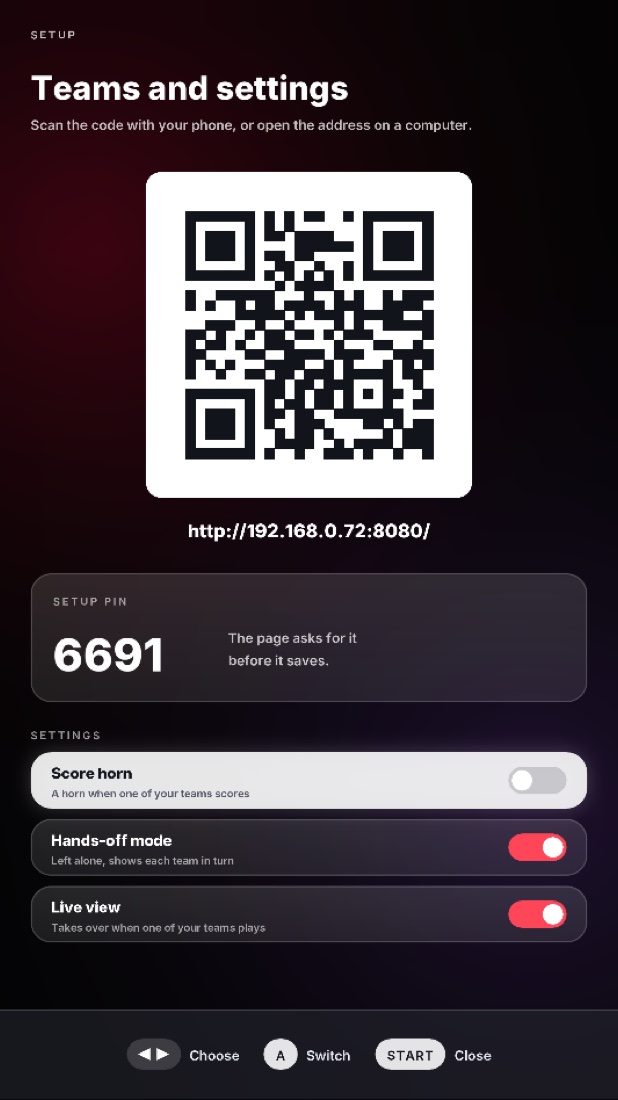
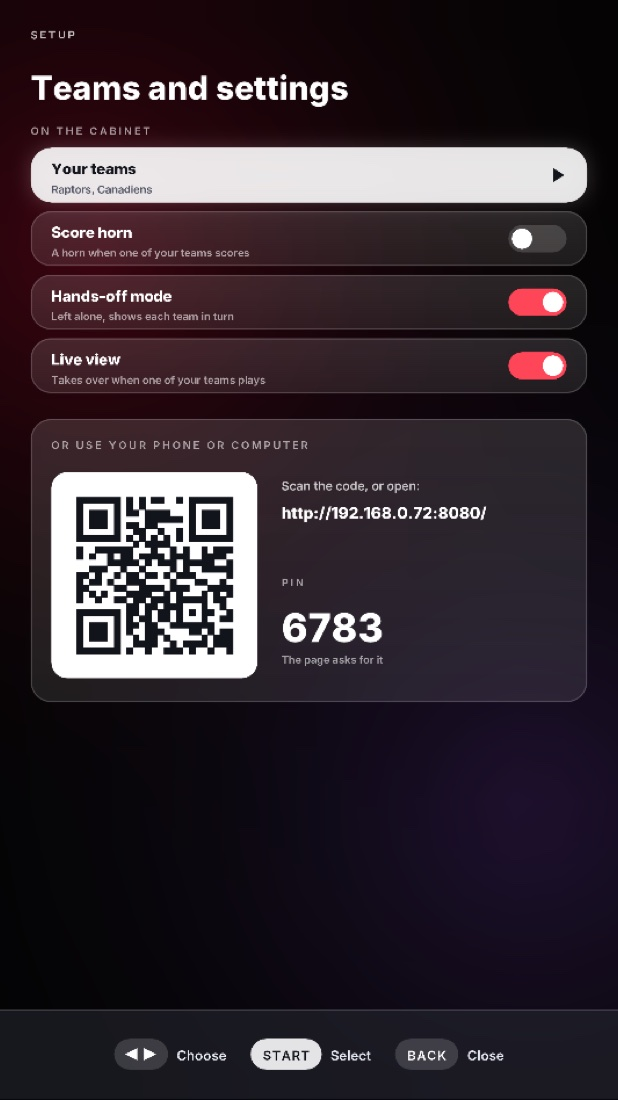
Site: pick teams on the cabinet, the cabinet's own buttons, donate
- Setup section: on the cabinet first (Teams and settings > Your teams), the
  phone or computer page second; new Teams and settings, team grid and Home
  screenshots.
- Controls: flippers move, Start selects, Rewind goes back; A and B with the
  control panel. FAQ: no control panel needed.
- Donate: a hero button and a Support section with the PayPal link (as on
  the Jukebox site); a Support line in the README.

diff --git a/docs/index.html b/docs/index.html
@@ -144,6 +144,11 @@ details .a ol, details .a ul { margin: 0; padding-left: 22px; display: grid; gap
 .groups h3 { margin: 0 0 2px; }
 @media (max-width: 860px) { .groups { grid-template-columns: minmax(0, 1fr); } }
 
+.setup-shots img { aspect-ratio: 9 / 16; width: 100%; object-fit: cover; object-position: top; }
+.pp { width: 18px; height: 18px; fill: currentColor; flex: none; }
+.support .pane { padding: 28px; display: flex; gap: 24px; align-items: center; justify-content: space-between; flex-wrap: wrap; }
+.support p { color: var(--dim); max-width: 60ch; }
+.support p b { color: var(--text); }
 footer { padding: 40px 0 60px; color: var(--faint); font-size: 14.5px; border-top: 1px solid rgba(255,255,255,.08); }
 footer .wrap { display: grid; gap: 8px; }
 </style>
@@ -173,6 +178,7 @@ footer .wrap { display: grid; gap: 8px; }
         <div class="btns">
           <a class="btn main" href="https://github.com/Bla1ze/atgames-game-day/releases/latest">Download</a>
           <a class="btn alt" href="#install">How to install</a>
+          <a class="btn alt" href="#support"><svg class="pp" viewBox="0 0 24 24" aria-hidden="true"><path d="M7.016 19.198h-4.2a.562.562 0 0 1-.555-.65L5.093.584A.692.692 0 0 1 5.776 0h7.222c3.417 0 5.904 2.488 5.846 5.5-.006.25-.027.5-.066.747A6.794 6.794 0 0 1 12.071 12H8.743a.69.69 0 0 0-.682.583l-.325 2.056-.013.083-.692 4.39-.015.087zM19.79 6.142c-.01.087-.01.175-.023.261a7.76 7.76 0 0 1-7.695 6.598H9.007l-.283 1.795-.013.083-.692 4.39-.134.843-.014.088H6.86l-.497 3.15a.562.562 0 0 0 .555.65h3.612c.34 0 .63-.249.683-.585l.952-6.031a.692.692 0 0 1 .683-.584h2.126a6.793 6.793 0 0 0 6.707-5.752c.306-1.95-.466-3.744-1.89-4.906z"/></svg>Donate</a>
         </div>
         <p class="cap">Free · For the 4KP and HDP · NFL, NBA, NHL, MLB, MLS, soccer and college</p>
       </div>
@@ -218,8 +224,8 @@ footer .wrap { display: grid; gap: 8px; }
         </div>
         <div class="pane">
           <div class="ico"><svg viewBox="0 0 24 24"><rect x="2" y="4" width="14" height="10" rx="1.5"/><path d="M6 18h6M9 14v4"/><rect x="17" y="8" width="5" height="11" rx="1.2"/></svg></div>
-          <h3>Set up from your phone or computer</h3>
-          <p>Scan the code on the cabinet with your phone, or type the address it shows into a browser on your computer. Pick your teams from any league and save. No typing on the cabinet, no account, nothing to sign up for.</p>
+          <h3>Pick your teams on the cabinet</h3>
+          <p>Choose a league and pick your teams from a grid of logos with the flippers and Start. Prefer typing? The same page opens on your phone or computer. No account, nothing to sign up for.</p>
         </div>
       </div>
     </div>
@@ -234,7 +240,7 @@ footer .wrap { display: grid; gap: 8px; }
       </div>
       <div class="gallery">
         <div class="row3">
-          <figure><img src="assets/home.jpg" alt="Home: a card per followed team, the Raptors live against Detroit and the Canadiens' next game, then today's scores" loading="lazy"><figcaption><b>Home</b><span>A card for each team you follow, then today's scores.</span></figcaption></figure>
+          <figure><img src="assets/home.jpg" alt="Home: a card per followed team, the Raptors live against Detroit and the Canadiens' next game, then today's scores" loading="lazy"><figcaption><b>Home</b><span>A card for each team you follow, today's scores, then Teams and settings.</span></figcaption></figure>
           <figure><img src="assets/team.jpg" alt="Team page for the Montreal Canadiens: next game with weather, last game, Atlantic Division standings" loading="lazy"><figcaption><b>Team page</b><span>Next game and weather, last game, standings.</span></figcaption></figure>
           <figure><img src="assets/scores.jpg" alt="Today's scores: every game in the followed leagues, one live" loading="lazy"><figcaption><b>Today's scores</b><span>Every game in your leagues; open any one.</span></figcaption></figure>
         </div>
@@ -262,7 +268,7 @@ footer .wrap { display: grid; gap: 8px; }
       <div class="steps">
         <div class="pane"><span class="n">1</span><h3>Download</h3><p>Get <code>game-day.zip</code> from the <a href="https://github.com/Bla1ze/atgames-game-day/releases/latest">latest release</a> and unzip it. You get a folder named <code>game-day</code>.</p></div>
         <div class="pane"><span class="n">2</span><h3>Copy it to your USB drive</h3><p>Put the whole <code>game-day</code> folder inside the <code>external</code> folder on the USB drive you use with your cabinet, then plug the drive back in.</p></div>
-        <div class="pane"><span class="n">3</span><h3>Launch and pick your teams</h3><p>Open <b>Game Day</b> from your cabinet's external applications. The first time, it shows a code to scan with your phone, and an address to open on a computer, so you can pick your teams.</p></div>
+        <div class="pane"><span class="n">3</span><h3>Launch and pick your teams</h3><p>Open <b>Game Day</b> from your cabinet's external applications. The first time, it opens Teams and settings: pick your teams right there, or scan the code to use your phone.</p></div>
       </div>
       <div class="split" style="margin-top:26px">
         <div class="pane tree">USB drive
@@ -279,29 +285,44 @@ footer .wrap { display: grid; gap: 8px; }
           <h3>Updating</h3>
           <p style="color:var(--dim)">Game Day updates itself. When a new version is out, a banner appears at the top of the home screen: open it to read what's new, choose <b>Install</b>, then <b>Restart now</b>. Only the app is replaced; your teams and settings in <code>data</code> carry over.</p>
           <h3 style="margin-top:8px">Needs</h3>
-          <p style="color:var(--dim)">An AtGames Legends Pinball 4KP or HDP on Wi-Fi with internet, and a phone or computer on the same network for setup.</p>
+          <p style="color:var(--dim)">An AtGames Legends Pinball 4KP or HDP on Wi-Fi with internet. A phone or computer is optional.</p>
         </div>
       </div>
     </div>
   </section>
 
   <section id="setup">
-    <div class="wrap split">
-      <div class="head" style="margin:0">
+    <div class="wrap">
+      <div class="head">
         <span class="cap">Setup</span>
-        <h2>Pick your teams from your phone or computer</h2>
-        <ol style="color:var(--dim); padding-left:22px; display:grid; gap:10px; margin:10px 0 0">
-          <li>In Game Day, press <b>Start</b> (it opens by itself the first time). The playfield shows a QR code, the page's address and a 4-digit PIN.</li>
-          <li>Scan the code with your phone's camera, or type the address shown under it into a browser on your computer. Either way, it has to be on the same network as the cabinet.</li>
-          <li>Choose a league, then tap your teams. Add as many as you like from any league, and put your favorite first: its division is the one on the home screen.</li>
-          <li>Pick °C or °F, the 12- or 24-hour clock, and whether the live view takes over when a team starts playing.</li>
-          <li>Enter the PIN from the cabinet and tap <b>Save to the cabinet</b>. The cabinet loads your teams right away.</li>
-        </ol>
-        <p style="color:var(--muted); margin-top:12px">Times follow your cabinet's own clock and time zone, so there's nothing to set.</p>
+        <h2>Pick your teams</h2>
+        <p class="lead">Right on the cabinet, with the flippers and Start. Or from your phone or computer if you'd rather type.</p>
       </div>
-      <div class="row2" style="align-items:start">
-        <figure><img src="assets/setup.jpg" alt="Teams and settings on the cabinet: a QR code, the page address, a PIN and switches for the score horn, hands-off mode and the live view" loading="lazy"><figcaption><b>On the cabinet</b></figcaption></figure>
-        <figure><img src="assets/phone.jpg" alt="The setup page in a browser: your teams with logos, add a team, units, clock, live view, score horn and hands-off mode" loading="lazy"><figcaption><b>On your phone or computer</b></figcaption></figure>
+      <div class="split">
+        <div class="pane" style="padding:24px; display:grid; gap:10px">
+          <h3>On the cabinet</h3>
+          <ol style="color:var(--dim); padding-left:22px; display:grid; gap:8px; margin:0">
+            <li>Open <b>Teams and settings</b>: the last card on the home screen (it opens by itself the first time).</li>
+            <li>Choose <b>Your teams</b>, then <b>Add a team</b>, and pick a league.</li>
+            <li>Move through the logos with the flippers and press <b>Start</b> to add or remove a team. A red check marks the ones you follow; hold a flipper to scroll fast.</li>
+            <li>Back in Your teams, press Start on a team to move it up or down, or remove it. The first team's division is the one on the home screen.</li>
+            <li>The switches below Your teams turn the score horn, hands-off mode and the live view on or off.</li>
+          </ol>
+        </div>
+        <div class="pane" style="padding:24px; display:grid; gap:10px">
+          <h3>On your phone or computer</h3>
+          <ol style="color:var(--dim); padding-left:22px; display:grid; gap:8px; margin:0">
+            <li>Teams and settings shows a QR code, the page's address and a 4-digit PIN.</li>
+            <li>Scan the code, or type the address into a browser. It has to be on the same network as the cabinet.</li>
+            <li>Choose a league and tap your teams, set °C or °F and the clock, then enter the PIN and tap <b>Save to the cabinet</b>.</li>
+          </ol>
+          <p style="color:var(--muted)">Times follow your cabinet's own clock and time zone, so there's nothing to set.</p>
+        </div>
+      </div>
+      <div class="row3 setup-shots" style="margin-top:26px">
+        <figure><img src="assets/setup.jpg" alt="Teams and settings on the cabinet: Your teams, switches for the score horn, hands-off mode and the live view, and the QR code, address and PIN" loading="lazy"><figcaption><b>Teams and settings</b><span>Your teams and the switches, on the cabinet.</span></figcaption></figure>
+        <figure><img src="assets/picker.jpg" alt="Picking NHL teams on the cabinet: a grid of team logos with a check on the Canadiens" loading="lazy"><figcaption><b>Pick a team</b><span>Flippers to move, Start to add or remove.</span></figcaption></figure>
+        <figure><img src="assets/phone.jpg" alt="The setup page in a browser: your teams with logos, add a team, units, clock and switches" loading="lazy"><figcaption><b>Phone or computer</b><span>The same choices, in a browser.</span></figcaption></figure>
       </div>
     </div>
   </section>
@@ -310,14 +331,14 @@ footer .wrap { display: grid; gap: 8px; }
     <div class="wrap">
       <div class="head">
         <span class="cap">Controls</span>
-        <h2>Flippers and a few buttons</h2>
+        <h2>The cabinet's own buttons</h2>
       </div>
       <div class="pane table">
         <table>
-          <tr><td>Flippers (or left / right)</td><td>Move between cards on the home screen. On a game page, step through the other games.</td></tr>
-          <tr><td>A</td><td>Open the highlighted card: your next game, the first game in Scores, or the full standings.</td></tr>
-          <tr><td>Start</td><td>Teams and settings: the setup code and PIN, and switches for the score horn, hands-off mode and the live view (flippers choose, A switches).</td></tr>
-          <tr><td>B / Back</td><td>Back to the home screen. On the home screen, leave Game Day.</td></tr>
+          <tr><td>Flippers</td><td>Move between cards, teams, games and logos. Hold one to scroll fast.</td></tr>
+          <tr><td>Start</td><td>Open or select the highlighted card, game, team or switch.</td></tr>
+          <tr><td>Rewind</td><td>Go back. On the home screen, leave Game Day.</td></tr>
+          <tr><td>With the control panel</td><td>A and B work too (A selects, B goes back), the joystick or d-pad moves, and the on-screen hints show A and B.</td></tr>
         </table>
       </div>
       <p style="color:var(--muted); margin-top:14px">Game pages and the scores list go back by themselves after a minute. Team pages and the live view stay up. With hands-off mode on, the cabinet shows each team in turn when nobody touches it for a minute.</p>
@@ -338,7 +359,8 @@ footer .wrap { display: grid; gap: 8px; }
               <li>Check that your phone or computer is on the same network as the cabinet, not on mobile data or a guest network.</li>
               <li>Type the address shown under the code (for example <code>http://192.168.1.20:8080/</code>) into a browser on your phone or computer. Keep the <code>http://</code>, not https.</li>
               <li>If the cabinet shows more than one address under "Also:", try those.</li>
-              <li>If the screen says the setup page isn't available, the cabinet isn't on a network. Connect it to Wi-Fi in the cabinet's settings and open Game Day again.</li>
+              <li>If the screen says it isn't available, the cabinet isn't on a network. Connect it to Wi-Fi in the cabinet's settings and open Game Day again.</li>
+              <li>You don't need the page at all: pick your teams on the cabinet under Teams and settings, Your teams.</li>
             </ol>
           </div>
         </details>
@@ -427,11 +449,11 @@ footer .wrap { display: grid; gap: 8px; }
           </details>
           <details>
             <summary>Can it sound a horn when my team scores?</summary>
-            <div class="a"><p>Yes. Press Start on the cabinet, highlight <b>Score horn</b> and press A; it plays once so you can hear it. It's also on the setup page. With or without the horn, a banner and the DMD show every score of your teams (basketball: when your team takes the lead).</p></div>
+            <div class="a"><p>Yes. Open <b>Teams and settings</b> (the last card on the home screen), highlight <b>Score horn</b> and press Start; it plays once so you can hear it. It's also on the setup page. With or without the horn, a banner and the DMD show every score of your teams (basketball: when your team takes the lead).</p></div>
           </details>
           <details>
             <summary>What is hands-off mode?</summary>
-            <div class="a"><p>When nobody touches the cabinet for a minute on the home screen, Game Day shows a live game of yours, or each team's page for 20 seconds in turn. Press any button to take over again. Switch it off under Start on the cabinet, or on the setup page.</p></div>
+            <div class="a"><p>When nobody touches the cabinet for a minute on the home screen, Game Day shows a live game of yours, or each team's page for 20 seconds in turn. Press any button to take over again. Switch it off in Teams and settings on the cabinet, or on the setup page.</p></div>
           </details>
           <details>
             <summary>How do I update Game Day?</summary>
@@ -439,7 +461,7 @@ footer .wrap { display: grid; gap: 8px; }
           </details>
           <details>
             <summary>Do I need the Arcade Control Panel?</summary>
-            <div class="a"><p>No. Everything works with the flippers, A, B and Start.</p></div>
+            <div class="a"><p>No. Everything works with the cabinet's own buttons: the flippers move, Start selects and Rewind goes back. If the control panel is plugged in, A and B work too and the hints on screen change to match.</p></div>
           </details>
         </div>
         <div class="qa">
@@ -469,6 +491,18 @@ footer .wrap { display: grid; gap: 8px; }
             <div class="a"><p>No. Game Day is a free, independent app. Team names and logos belong to their teams and leagues.</p></div>
           </details>
         </div>
+      </div>
+    </div>
+  </section>
+  <section id="support" class="support">
+    <div class="wrap">
+      <div class="head">
+        <span class="cap">Support</span>
+        <h2>Support Game Day</h2>
+      </div>
+      <div class="pane">
+        <p>Game Day is free, and every feature works without paying a thing. <b>Donations are never required</b>, but they're appreciated and help keep new versions coming. If Game Day has earned a spot on your cabinet, you can chip in through PayPal.</p>
+        <a class="btn main" href="https://www.paypal.me/Bla1ze81" target="_blank" rel="noopener"><svg class="pp" viewBox="0 0 24 24" aria-hidden="true"><path d="M7.016 19.198h-4.2a.562.562 0 0 1-.555-.65L5.093.584A.692.692 0 0 1 5.776 0h7.222c3.417 0 5.904 2.488 5.846 5.5-.006.25-.027.5-.066.747A6.794 6.794 0 0 1 12.071 12H8.743a.69.69 0 0 0-.682.583l-.325 2.056-.013.083-.692 4.39-.015.087zM19.79 6.142c-.01.087-.01.175-.023.261a7.76 7.76 0 0 1-7.695 6.598H9.007l-.283 1.795-.013.083-.692 4.39-.134.843-.014.088H6.86l-.497 3.15a.562.562 0 0 0 .555.65h3.612c.34 0 .63-.249.683-.585l.952-6.031a.692.692 0 0 1 .683-.584h2.126a6.793 6.793 0 0 0 6.707-5.752c.306-1.95-.466-3.744-1.89-4.906z"/></svg>Donate with PayPal</a>
       </div>
     </div>
   </section>

diff --git a/README.md b/README.md
@@ -19,15 +19,17 @@ Your teams on your AtGames Legends Pinball cabinet (4KP and HDP).
 - **Backglass:** Team vs. Team. Both logos over a blend of the teams' colors,
   with the live score or when they play next.
 - **DMD:** the live score in large type; between games, the time and a ticker.
-- **Setup from your phone or computer:** scan the code on the cabinet, or open
-  the address it shows in any browser, then pick your teams from the NFL, NBA,
-  WNBA, NHL, MLB, MLS, top soccer leagues or college, and save.
+- **Pick your teams on the cabinet:** choose from a grid of logos with the
+  flippers and Start, from the NFL, NBA, WNBA, NHL, MLB, MLS, top soccer
+  leagues or college. Or use your phone or computer.
+- **No control panel needed:** the flippers move, Start selects, Rewind goes
+  back. With the panel plugged in, A and B work too.
 
 ## Install
 
 1. Download `game-day.zip` from the [latest release](https://github.com/Bla1ze/atgames-game-day/releases/latest) and unzip it.
 2. Copy the `game-day` folder into the `external` folder on your cabinet's USB drive.
-3. Open **Game Day** on the cabinet, then scan the code with your phone (or open the address it shows on a computer) to pick your teams.
+3. Open **Game Day** on the cabinet and pick your teams right there (or scan the code to use your phone or computer).
 
 Game Day keeps everything in its own folder: `data` (your settings), `cache`
 (the latest scores) and `logos` (team logos).
@@ -37,6 +39,11 @@ home screen offers it: read what's new, choose Install, then Restart now. Your
 settings carry over.
 
 Help and FAQ: [bla1ze.github.io/atgames-game-day](https://bla1ze.github.io/atgames-game-day/#help)
+
+## Support
+
+Game Day is free. Donations are never required, but they're appreciated:
+[donate with PayPal](https://www.paypal.me/Bla1ze81).
 
 ## Credits
 
